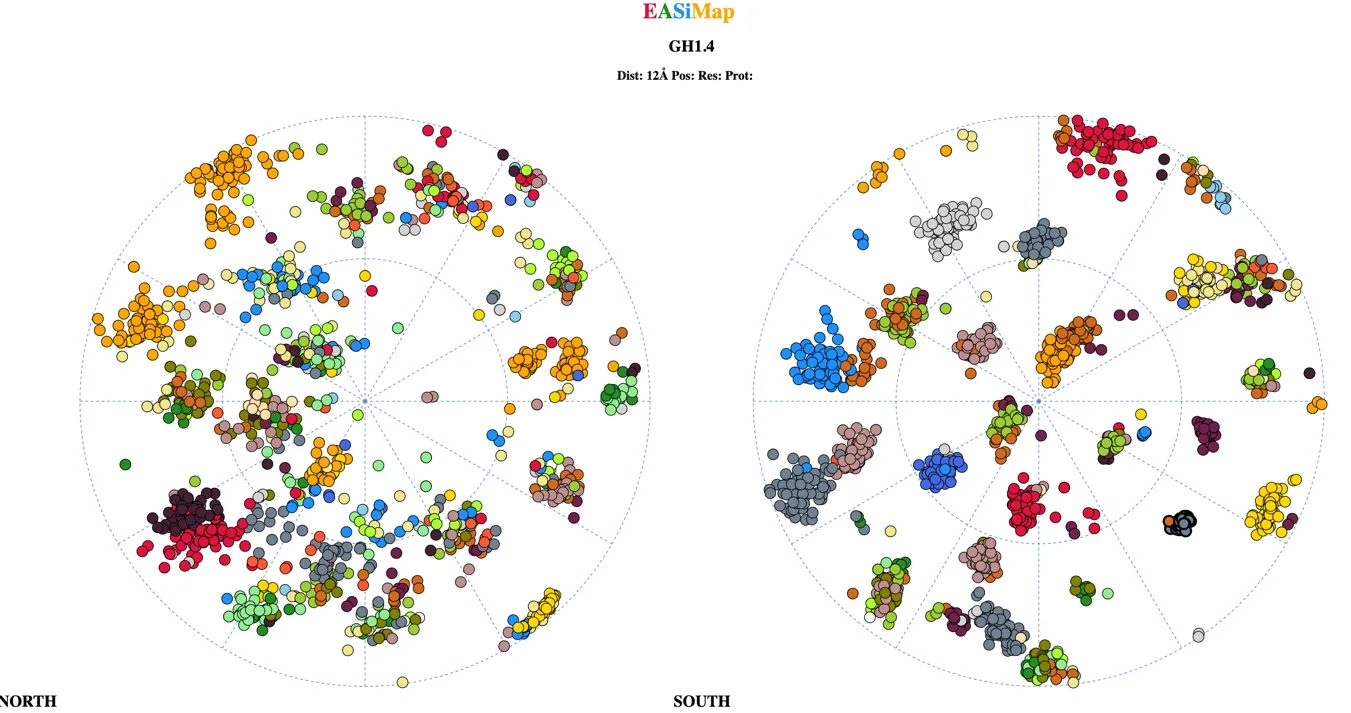
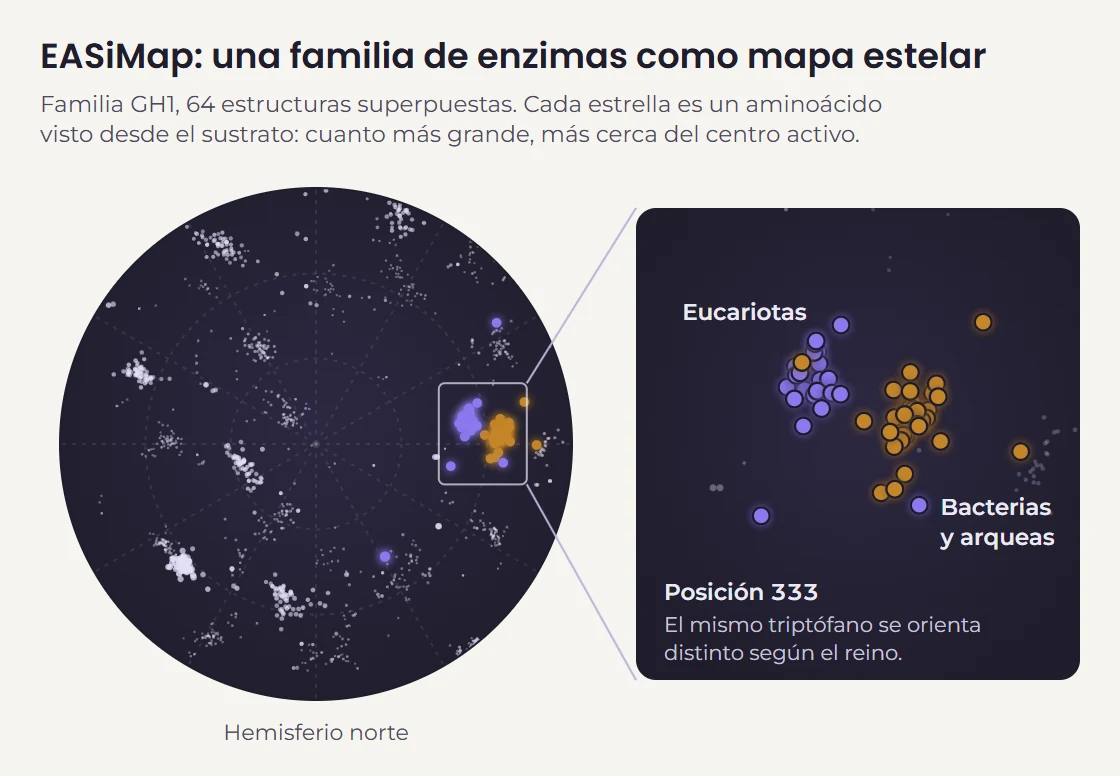
«Sobre mí»: EASiMap redibujado con los datos del TFM
Mapa estelar del hemisferio norte de GH1 (64 estructuras, residuos a menos
de 12 Å) con zoom en la posición 333: eucariotas frente a bacterias y
arqueas. Texto alternativo ES/EN ajustado a la figura nueva.

diff --git a/src/i18n/ui.ts b/src/i18n/ui.ts
@@ -56,7 +56,7 @@ export const ui = {
       fotos: {
         retrato: { src: '/sobre-mi/retrato.webp', alt: 'Retrato de Miguel Ferreiro' },
         mariposa: { src: '/sobre-mi/mariposa.webp', alt: 'Mariposa chupaleches posada en un tojo' },
-        easimap: { src: '/sobre-mi/easimap.webp', alt: 'EASiMap, mapa polar de una familia de enzimas en sus hemisferios norte y sur' },
+        easimap: { src: '/sobre-mi/easimap.webp', alt: 'EASiMap, mapa estelar del hemisferio norte de la familia de enzimas GH1, con zoom en la posición 333: el triptófano se orienta distinto en eucariotas que en bacterias y arqueas' },
         tuits: { src: '/sobre-mi/tuits-covid.webp', alt: 'Gráfico de tuits con sentimiento negativo frente a casos de COVID-19 en España' },
         proreg: { src: '/sobre-mi/proreg.webp', alt: 'Web pública de ProReg, el registro de cáncer de próstata de la EAU' },
         wikinatu: { src: '/sobre-mi/wikinatu.webp', alt: 'WikiNatu en la ruta de O Pindo: 83 especies de iNaturalist sobre el mapa y cinco fichas con foto' },
@@ -125,7 +125,7 @@ export const ui = {
       fotos: {
         retrato: { src: '/sobre-mi/retrato.webp', alt: 'Portrait of Miguel Ferreiro' },
         mariposa: { src: '/sobre-mi/mariposa.webp', alt: 'Scarce swallowtail butterfly on gorse' },
-        easimap: { src: '/sobre-mi/easimap.webp', alt: 'EASiMap, polar map of an enzyme family in its north and south hemispheres' },
+        easimap: { src: '/sobre-mi/easimap.webp', alt: 'EASiMap, star map of the northern hemisphere of the GH1 enzyme family, zooming into position 333: the tryptophan points differently in eukaryotes than in bacteria and archaea' },
         tuits: { src: '/sobre-mi/tuits-covid.webp', alt: 'Chart of negative-sentiment tweets against COVID-19 cases in Spain' },
         proreg: { src: '/sobre-mi/proreg.webp', alt: 'Public website of ProReg, the EAU prostate cancer registry' },
         wikinatu: { src: '/sobre-mi/wikinatu.webp', alt: 'WikiNatu on the O Pindo route: 83 iNaturalist species on the map and five species cards' },
